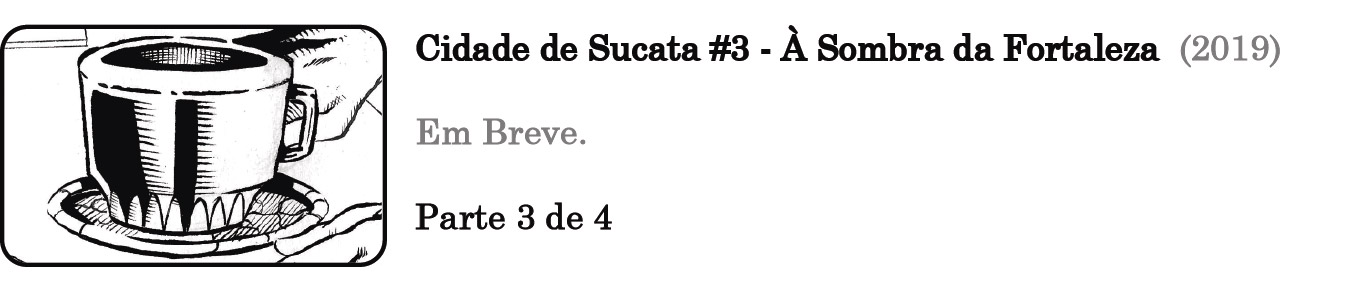
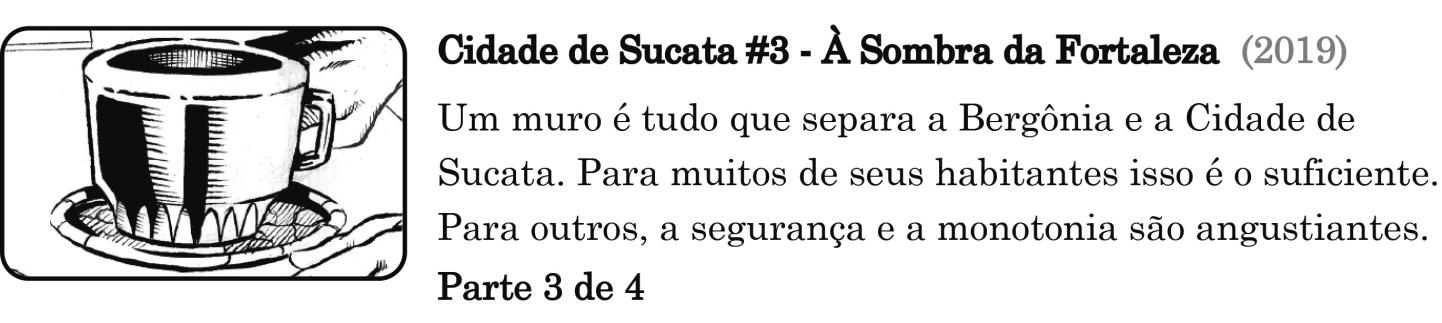
'A Sombra Da Fortaleza' release
* Replaces the storyboard images for the final ones

* Updates the main page thumnail and enables the clickable link

diff --git a/comics/sombra/page_script.js b/comics/sombra/page_script.js
@@ -1,5 +1,6 @@
 const FIRST_PAGE = 1;
-const FINAL_PAGE = 13;
+const FINAL_PAGE = 24;
+const DOUBLE_PAGE_INDEX = -1;
 
 var checksum;
 
@@ -13,9 +14,14 @@ const load_page = (page_number) => {
 		page_number = 1;
 	}
 
-	document.getElementById('page').setAttribute('src', `./pages/${page_number}.png`);
+	document.getElementById('page').setAttribute('src', `./pages/${page_number}.jpg`);
 	document.getElementsByTagName('title')[0].innerText = `À Sombra da Fortaleza - ${page_number}`;
-	document.getElementById('page').classList.add('double');
+
+    if (page_number == DOUBLE_PAGE_INDEX) {
+		document.getElementById('page').classList.add('double');
+	} else {
+		document.getElementById('page').classList.remove('double');
+	}
 
 	window.location.href = `${window.location.href.split('#')[0]}#${page_number}`;
 	window.scrollTo(0, 0);

diff --git a/index.html b/index.html
@@ -13,7 +13,7 @@
     <div id='content' align='center'>
         <img id='title' src='./assets/title.JPG' align='center'/>
         <div>
-            <a>
+            <a href="./comics/sombra/page.html">
                 <img class='comic-thumbnail' src='./thumbnails/sombra.jpg' align='center'>
             </a>
         </div>
